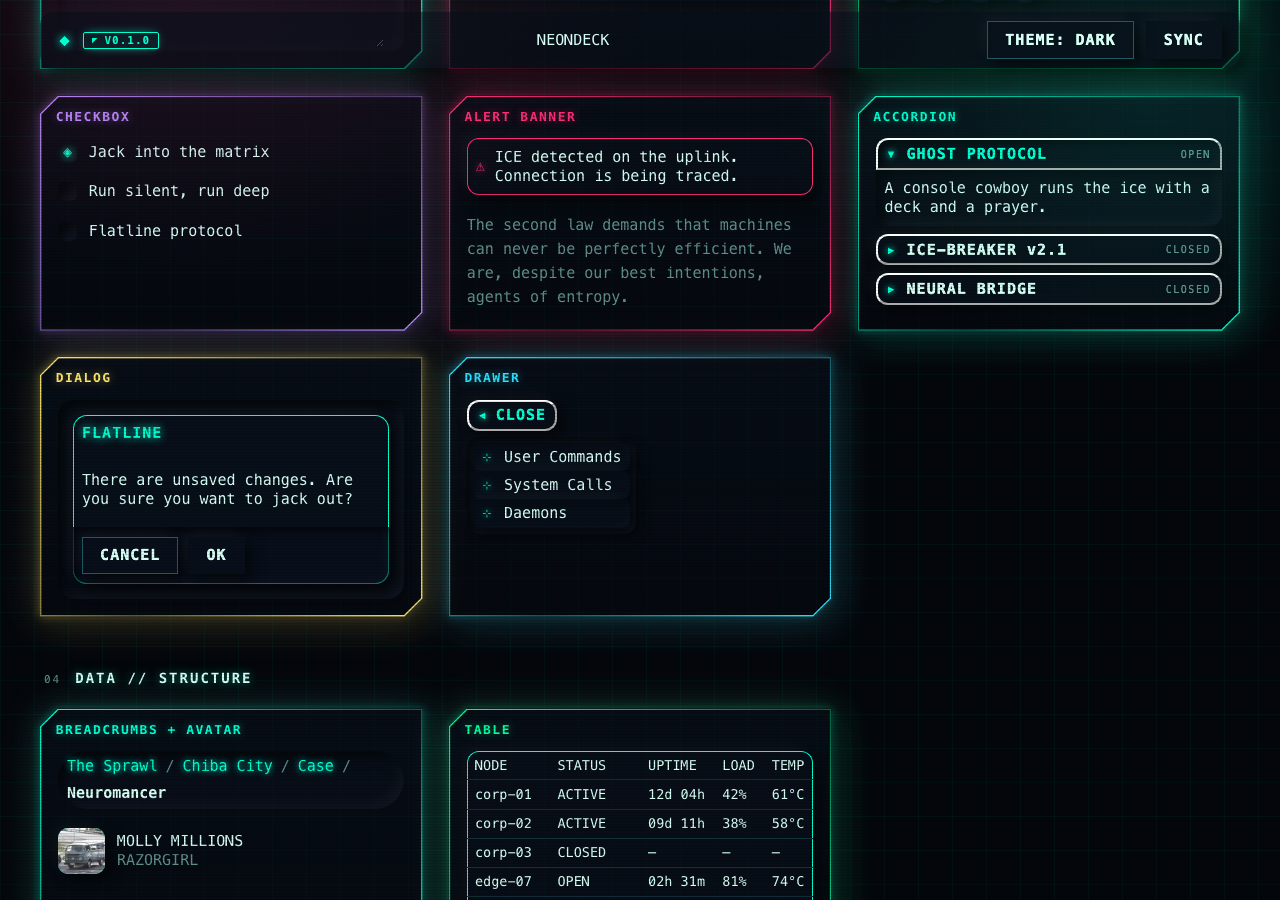
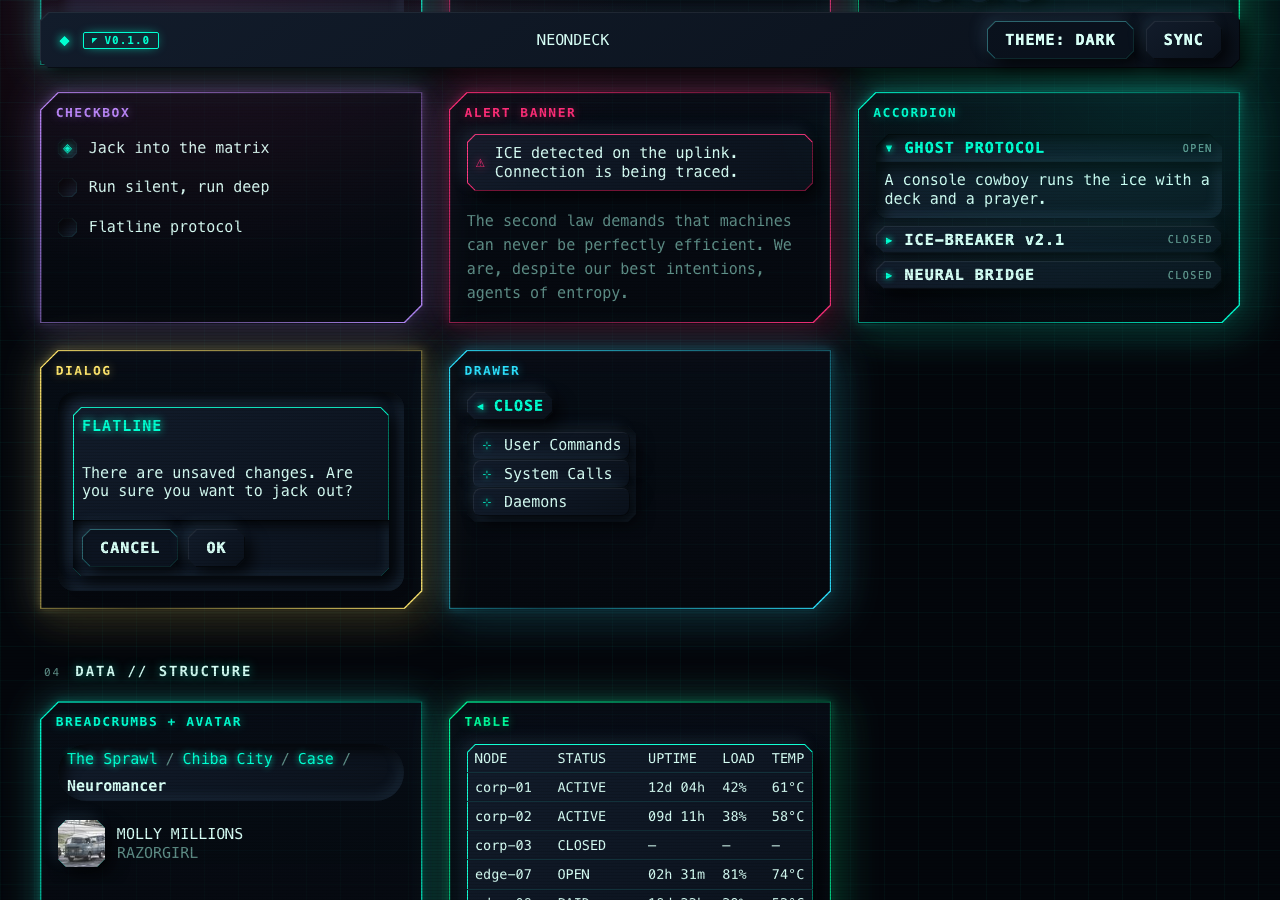
feat: make the neumorphic layer actually read on dark, fix spelling
Neumorphism needs a surface a few steps brighter than the page so both the
dark and the light shadow are visible. The old dark tokens used a near-black
surface with a 4% white highlight, so every Neo* control rendered flat.

Retune the --neo-* tokens in global.css: gradient surface, steel-blue light
shadow, 1px rim highlights, deeper wells. On dark the light shadow takes on
the element's neon tone via the shared [data-tone] rules (--tone-faint), so
the "light source" is the neon accent. Light theme gets matching rim
highlights and a cooler dark shadow. Add --neo-corner and apply
`corner-shape: bevel` (rounded fallback) across Neo surfaces so they match
the chamfered Panel language.

Fix default <button> borders leaking into NeoSelect, NeoAccordion and
NeoDrawer (the thick grey rings), add :focus-visible rings in their place,
give unchecked NeoCheckbox a visible rim, and drop the per-component tone
blocks in NeoButton/NeoToggle in favour of the global ones.

Rename "Neomorphic" → "Neumorphic" in story titles and comments, dedupe the
trails block in the screenshot script, refresh screenshots.

diff --git a/global.css b/global.css
@@ -114,13 +114,23 @@ body {
   --theme-window-background: rgba(10, 17, 28, 0.5);
   --theme-window-shadow: rgba(0, 255, 209, 0.16);
 
-  /* ---- neumorphic tokens (experimental) ---- */
-  --neo-surface: rgba(10, 17, 28, 0.55);
-  --neo-raised: 6px 6px 14px rgba(0, 0, 0, 0.55), -6px -6px 14px rgba(255, 255, 255, 0.04);
-  --neo-pressed: inset 4px 4px 10px rgba(0, 0, 0, 0.6), inset -4px -4px 10px rgba(255, 255, 255, 0.035);
-  --neo-well: inset 6px 6px 12px rgba(0, 0, 0, 0.55), inset -6px -6px 12px rgba(255, 255, 255, 0.04);
-  --neo-drop: drop-shadow(7px 7px 16px rgba(0, 0, 0, 0.5))
-    drop-shadow(-7px -7px 16px rgba(255, 255, 255, 0.05));
+  /* ---- neumorphic tokens ----
+     Neumorphism needs a surface a few steps brighter than the page so both
+     the dark and the light shadow can read. On dark the "light" shadow is a
+     cool steel-blue, optionally tinted by the element's neon tone via --neo-light. */
+  --neo-bg: #0c1420;
+  --neo-surface: linear-gradient(145deg, #121c2b 0%, #0a111b 100%);
+  --neo-surface-flat: #0d1622;
+  --neo-light: rgba(96, 140, 180, 0.16);
+  --neo-dark: rgba(0, 0, 0, 0.72);
+  --neo-rim: inset 1px 1px 0 rgba(255, 255, 255, 0.07), inset -1px -1px 0 rgba(0, 0, 0, 0.55);
+  --neo-raised: 7px 7px 16px var(--neo-dark), -6px -6px 14px var(--neo-light), var(--neo-rim);
+  --neo-pressed: inset 5px 5px 12px rgba(0, 0, 0, 0.8), inset -4px -4px 10px var(--neo-light),
+    inset 0 1px 0 rgba(0, 0, 0, 0.6);
+  --neo-well: inset 6px 6px 14px rgba(0, 0, 0, 0.78), inset -5px -5px 12px var(--neo-light);
+  --neo-drop: drop-shadow(8px 8px 18px rgba(0, 0, 0, 0.62))
+    drop-shadow(-6px -6px 14px rgba(96, 140, 180, 0.12));
+  --neo-corner: 8px;
 }
 
 /* ---- page backdrop: grid + scanlines + aurora ---- */
@@ -338,12 +348,17 @@ html[data-theme='light'] body {
   --theme-window-shadow: rgba(0, 150, 130, 0.22);
 
   /* ---- neumorphic tokens (experimental) ---- */
-  --neo-surface: rgba(255, 255, 255, 0.6);
-  --neo-raised: 6px 6px 14px rgba(0, 0, 0, 0.12), -6px -6px 14px rgba(255, 255, 255, 0.9);
-  --neo-pressed: inset 4px 4px 10px rgba(0, 0, 0, 0.14), inset -4px -4px 10px rgba(255, 255, 255, 0.85);
-  --neo-well: inset 6px 6px 12px rgba(0, 0, 0, 0.12), inset -6px -6px 12px rgba(255, 255, 255, 0.9);
-  --neo-drop: drop-shadow(7px 7px 16px rgba(0, 0, 0, 0.12))
-    drop-shadow(-7px -7px 16px rgba(255, 255, 255, 0.9));
+  --neo-bg: #e6eef3;
+  --neo-surface: linear-gradient(145deg, #f7fbfd 0%, #dfe8ee 100%);
+  --neo-surface-flat: #ecf2f6;
+  --neo-light: rgba(255, 255, 255, 0.95);
+  --neo-dark: rgba(60, 90, 110, 0.22);
+  --neo-rim: inset 1px 1px 0 rgba(255, 255, 255, 0.9), inset -1px -1px 0 rgba(60, 90, 110, 0.12);
+  --neo-raised: 7px 7px 16px var(--neo-dark), -6px -6px 14px var(--neo-light), var(--neo-rim);
+  --neo-pressed: inset 5px 5px 12px rgba(60, 90, 110, 0.26), inset -4px -4px 10px var(--neo-light);
+  --neo-well: inset 6px 6px 14px rgba(60, 90, 110, 0.22), inset -5px -5px 12px var(--neo-light);
+  --neo-drop: drop-shadow(8px 8px 18px rgba(60, 90, 110, 0.2))
+    drop-shadow(-6px -6px 14px rgba(255, 255, 255, 0.95));
 }
 
 @media (prefers-color-scheme: light) {
@@ -372,12 +387,17 @@ html[data-theme='light'] body {
     --theme-window-shadow: rgba(0, 150, 130, 0.22);
 
     /* ---- neumorphic tokens (experimental) ---- */
-    --neo-surface: rgba(255, 255, 255, 0.6);
-    --neo-raised: 6px 6px 14px rgba(0, 0, 0, 0.12), -6px -6px 14px rgba(255, 255, 255, 0.9);
-    --neo-pressed: inset 4px 4px 10px rgba(0, 0, 0, 0.14), inset -4px -4px 10px rgba(255, 255, 255, 0.85);
-    --neo-well: inset 6px 6px 12px rgba(0, 0, 0, 0.12), inset -6px -6px 12px rgba(255, 255, 255, 0.9);
-    --neo-drop: drop-shadow(7px 7px 16px rgba(0, 0, 0, 0.12))
-      drop-shadow(-7px -7px 16px rgba(255, 255, 255, 0.9));
+    --neo-bg: #e6eef3;
+    --neo-surface: linear-gradient(145deg, #f7fbfd 0%, #dfe8ee 100%);
+    --neo-surface-flat: #ecf2f6;
+    --neo-light: rgba(255, 255, 255, 0.95);
+    --neo-dark: rgba(60, 90, 110, 0.22);
+    --neo-rim: inset 1px 1px 0 rgba(255, 255, 255, 0.9), inset -1px -1px 0 rgba(60, 90, 110, 0.12);
+    --neo-raised: 7px 7px 16px var(--neo-dark), -6px -6px 14px var(--neo-light), var(--neo-rim);
+    --neo-pressed: inset 5px 5px 12px rgba(60, 90, 110, 0.26), inset -4px -4px 10px var(--neo-light);
+    --neo-well: inset 6px 6px 14px rgba(60, 90, 110, 0.22), inset -5px -5px 12px var(--neo-light);
+    --neo-drop: drop-shadow(8px 8px 18px rgba(60, 90, 110, 0.2))
+      drop-shadow(-6px -6px 14px rgba(255, 255, 255, 0.95));
   }
 }
 
@@ -411,11 +431,17 @@ html[data-theme='light'] body::after {
 }
 
 /* ---- shared neon tone keys: any element with data-tone gets --tone / --tone-soft ---- */
-[data-tone='teal'] { --tone: var(--neon-teal); --tone-soft: rgba(0, 255, 209, 0.45); }
-[data-tone='magenta'] { --tone: var(--neon-magenta); --tone-soft: rgba(255, 45, 120, 0.45); }
-[data-tone='yellow'] { --tone: var(--neon-yellow); --tone-soft: rgba(255, 230, 109, 0.45); }
-[data-tone='green'] { --tone: var(--neon-green); --tone-soft: rgba(0, 255, 157, 0.45); }
-[data-tone='violet'] { --tone: var(--neon-violet); --tone-soft: rgba(183, 139, 255, 0.45); }
-[data-tone='orange'] { --tone: var(--neon-orange); --tone-soft: rgba(255, 157, 45, 0.45); }
-[data-tone='red'] { --tone: var(--neon-red); --tone-soft: rgba(255, 77, 94, 0.45); }
-[data-tone='blue'] { --tone: var(--neon-blue); --tone-soft: rgba(45, 226, 255, 0.45); }
+[data-tone='teal'] { --tone: var(--neon-teal); --tone-soft: rgba(0, 255, 209, 0.45); --tone-faint: rgba(0, 255, 209, 0.14); }
+[data-tone='magenta'] { --tone: var(--neon-magenta); --tone-soft: rgba(255, 45, 120, 0.45); --tone-faint: rgba(255, 45, 120, 0.14); }
+[data-tone='yellow'] { --tone: var(--neon-yellow); --tone-soft: rgba(255, 230, 109, 0.45); --tone-faint: rgba(255, 230, 109, 0.14); }
+[data-tone='green'] { --tone: var(--neon-green); --tone-soft: rgba(0, 255, 157, 0.45); --tone-faint: rgba(0, 255, 157, 0.14); }
+[data-tone='violet'] { --tone: var(--neon-violet); --tone-soft: rgba(183, 139, 255, 0.45); --tone-faint: rgba(183, 139, 255, 0.14); }
+[data-tone='orange'] { --tone: var(--neon-orange); --tone-soft: rgba(255, 157, 45, 0.45); --tone-faint: rgba(255, 157, 45, 0.14); }
+[data-tone='red'] { --tone: var(--neon-red); --tone-soft: rgba(255, 77, 94, 0.45); --tone-faint: rgba(255, 77, 94, 0.14); }
+[data-tone='blue'] { --tone: var(--neon-blue); --tone-soft: rgba(45, 226, 255, 0.45); --tone-faint: rgba(45, 226, 255, 0.14); }
+
+/* on dark, the neumorphic "light source" takes on the element's neon tone */
+html:not([data-theme='light']) [data-tone] { --neo-light: var(--tone-faint); }
+@media (prefers-color-scheme: light) {
+  html:not([data-theme='dark']) [data-tone] { --neo-light: rgba(255, 255, 255, 0.95); }
+}

diff --git a/components/NeoButton.module.css b/components/NeoButton.module.css
@@ -16,6 +16,8 @@
   color: var(--theme-text);
   background: var(--neo-surface);
   box-shadow: var(--neo-raised);
+  border-radius: var(--neo-corner, 8px);
+  corner-shape: bevel;
   cursor: pointer;
   user-select: none;
   transition: box-shadow 160ms ease, transform 160ms ease, color 160ms ease, text-shadow 160ms ease;
@@ -23,12 +25,15 @@
 
 .root:hover {
   color: var(--tone, var(--theme-focused-foreground));
+  box-shadow: var(--neo-raised), 0 0 18px -6px var(--tone-soft, transparent);
 }
 
 .root:active {
+  background: linear-gradient(145deg, var(--neo-bg) 0%, var(--neo-surface-flat) 100%);
   box-shadow: var(--neo-pressed);
   transform: translateY(1px);
   color: var(--tone, var(--theme-focused-foreground));
+  text-shadow: 0 0 8px var(--tone-soft, transparent);
 }
 
 .root:focus-visible {
@@ -37,8 +42,10 @@
 }
 
 .pressed {
+  background: linear-gradient(145deg, var(--neo-bg) 0%, var(--neo-surface-flat) 100%);
   box-shadow: var(--neo-pressed);
   color: var(--tone, var(--theme-focused-foreground));
+  text-shadow: 0 0 8px var(--tone-soft, transparent);
 }
 
 .glass {
@@ -50,36 +57,4 @@
 
 .glass:active {
   box-shadow: var(--neo-pressed), inset 0 0 0 1px var(--tone, var(--theme-focused-foreground));
-}
-
-.root[data-tone='teal'] {
-  --tone: var(--neon-teal);
-}
-
-.root[data-tone='magenta'] {
-  --tone: var(--neon-magenta);
-}
-
-.root[data-tone='yellow'] {
-  --tone: var(--neon-yellow);
-}
-
-.root[data-tone='green'] {
-  --tone: var(--neon-green);
-}
-
-.root[data-tone='violet'] {
-  --tone: var(--neon-violet);
-}
-
-.root[data-tone='orange'] {
-  --tone: var(--neon-orange);
-}
-
-.root[data-tone='red'] {
-  --tone: var(--neon-red);
-}
-
-.root[data-tone='blue'] {
-  --tone: var(--neon-blue);
 }

diff --git a/components/NeoSelect.module.css b/components/NeoSelect.module.css
@@ -7,13 +7,16 @@
 
 .trigger {
   display: flex;
+  border: 0;
+  outline: 0;
   align-items: center;
   justify-content: space-between;
   gap: 12px;
   width: 100%;
   padding: calc(var(--theme-line-height-base) * 0.25rem) 1ch;
   background: var(--neo-surface);
-  border-radius: 12px;
+  border-radius: var(--neo-corner, 10px);
+  corner-shape: bevel;
   box-shadow: var(--neo-raised);
   color: var(--theme-text);
   font-family: var(--font-family-mono);
@@ -27,6 +30,10 @@
 
 .trigger:hover {
   color: var(--tone, var(--theme-focused-foreground));
+  box-shadow: var(--neo-raised), inset 0 0 0 1px var(--tone, var(--theme-focused-foreground));
+}
+
+.trigger:focus-visible {
   box-shadow: var(--neo-raised), inset 0 0 0 1px var(--tone, var(--theme-focused-foreground));
 }
 
@@ -54,7 +61,8 @@
   max-height: 16rem;
   overflow-y: auto;
   background: var(--neo-surface);
-  border-radius: 12px;
+  border-radius: var(--neo-corner, 10px);
+  corner-shape: bevel;
   box-shadow: var(--neo-raised), inset 0 0 0 1px var(--tone, var(--theme-focused-foreground));
   backdrop-filter: blur(14px) saturate(140%);
   -webkit-backdrop-filter: blur(14px) saturate(140%);

diff --git a/components/NeoDrawer.module.css b/components/NeoDrawer.module.css
@@ -5,12 +5,15 @@
 }
 
 .toggle {
+  border: 0;
+  outline: 0;
   display: inline-flex;
   align-items: center;
   gap: 8px;
   padding: calc(var(--theme-line-height-base) * 0.25rem) 1ch;
   background: var(--neo-surface);
-  border-radius: 12px;
+  border-radius: var(--neo-corner, 10px);
+  corner-shape: bevel;
   box-shadow: var(--neo-raised);
   color: var(--tone, var(--theme-focused-foreground));
   font-family: var(--font-family-mono);
@@ -37,7 +40,8 @@
 .body {
   margin-top: 6px;
   padding: 6px;
-  border-radius: 12px;
+  border-radius: var(--neo-corner, 10px);
+  corner-shape: bevel;
   background: var(--neo-surface);
   box-shadow: var(--neo-well);
   backdrop-filter: blur(10px) saturate(140%);
@@ -74,4 +78,8 @@
 
 .drawer[data-tone='blue'] {
   --tone: var(--neon-blue);
+}
+
+.toggle:focus-visible {
+  box-shadow: var(--neo-raised), inset 0 0 0 1px var(--tone, var(--theme-focused-foreground));
 }

diff --git a/components/NeoToggle.module.css b/components/NeoToggle.module.css
@@ -27,7 +27,7 @@
   width: 56px;
   height: 28px;
   border-radius: 999px;
-  background: var(--neo-surface);
+  background: var(--neo-bg);
   box-shadow: var(--neo-well);
   transition: box-shadow 180ms ease;
 }
@@ -56,36 +56,4 @@
 
 .label {
   color: var(--theme-text);
-}
-
-.root[data-tone='teal'] {
-  --tone: var(--neon-teal);
-}
-
-.root[data-tone='magenta'] {
-  --tone: var(--neon-magenta);
-}
-
-.root[data-tone='yellow'] {
-  --tone: var(--neon-yellow);
-}
-
-.root[data-tone='green'] {
-  --tone: var(--neon-green);
-}
-
-.root[data-tone='violet'] {
-  --tone: var(--neon-violet);
-}
-
-.root[data-tone='orange'] {
-  --tone: var(--neon-orange);
-}
-
-.root[data-tone='red'] {
-  --tone: var(--neon-red);
-}
-
-.root[data-tone='blue'] {
-  --tone: var(--neon-blue);
 }

diff --git a/components/NeoAccordion.module.css b/components/NeoAccordion.module.css
@@ -5,13 +5,16 @@
 }
 
 .header {
+  border: 0;
+  outline: 0;
   display: flex;
   align-items: center;
   gap: 10px;
   width: 100%;
   padding: calc(var(--theme-line-height-base) * 0.25rem) 1ch;
   background: var(--neo-surface);
-  border-radius: 12px;
+  border-radius: var(--neo-corner, 10px);
+  corner-shape: bevel;
   box-shadow: var(--neo-raised);
   color: var(--theme-text);
   font-family: var(--font-family-mono);
@@ -91,4 +94,8 @@
 
 .accordion[data-tone='blue'] {
   --tone: var(--neon-blue);
+}
+
+.header:focus-visible {
+  box-shadow: inset 0 0 0 1px var(--tone, var(--theme-focused-foreground));
 }

diff --git a/components/NeoCheckbox.module.css b/components/NeoCheckbox.module.css
@@ -16,9 +16,10 @@
   justify-content: center;
   width: calc(var(--theme-line-height-base) * 1rem);
   height: calc(var(--theme-line-height-base) * 1rem);
-  border-radius: 6px;
-  background: var(--neo-surface);
-  box-shadow: var(--neo-well);
+  border-radius: 5px;
+  corner-shape: bevel;
+  background: var(--neo-bg);
+  box-shadow: var(--neo-well), inset 0 0 0 1px var(--theme-border);
   flex-shrink: 0;
   transition: box-shadow 180ms ease;
 }

diff --git a/components/NeoAvatar.module.css b/components/NeoAvatar.module.css
@@ -20,7 +20,8 @@
   justify-content: center;
   width: calc(var(--theme-line-height-base) * 2.5rem);
   height: calc(var(--theme-line-height-base) * 2.5rem);
-  border-radius: 10px;
+  border-radius: var(--neo-corner, 10px);
+  corner-shape: bevel;
   background: var(--neo-surface);
   box-shadow: var(--neo-raised), inset 0 0 0 1px var(--tone, var(--theme-focused-foreground));
   overflow: hidden;

diff --git a/components/NeoTable.module.css b/components/NeoTable.module.css
@@ -3,7 +3,8 @@
   overflow-x: auto;
   overflow-y: hidden;
   background: var(--neo-surface);
-  border-radius: 12px;
+  border-radius: var(--neo-corner, 10px);
+  corner-shape: bevel;
   box-shadow: var(--neo-raised), inset 0 0 0 1px var(--tone, var(--theme-border-bright));
   backdrop-filter: blur(10px) saturate(140%);
   -webkit-backdrop-filter: blur(10px) saturate(140%);

diff --git a/stories/NeoForms.stories.tsx b/stories/NeoForms.stories.tsx
@@ -13,7 +13,7 @@ import { NeoThemeToggle } from './NeoTheme';
 const TONES = ['teal', 'magenta', 'yellow', 'green', 'violet', 'orange', 'red', 'blue'] as const;
 
 export default {
-  title: 'Neomorphic / Forms',
+  title: 'Neumorphic / Forms',
 };
 
 export const NeoInputField: Story<{ label: string; placeholder: string; tone: string }> = ({ label, placeholder, tone }) => (

diff --git a/components/NeoDialog.module.css b/components/NeoDialog.module.css
@@ -13,7 +13,8 @@
   max-width: 48ch;
   margin: 0 auto;
   background: var(--neo-surface);
-  border-radius: 14px;
+  border-radius: var(--neo-corner, 10px);
+  corner-shape: bevel;
   box-shadow: var(--neo-raised), inset 0 0 0 1px var(--tone, var(--theme-border-bright));
   backdrop-filter: blur(14px) saturate(150%);
   -webkit-backdrop-filter: blur(14px) saturate(150%);

diff --git a/components/NeoAlertBanner.module.css b/components/NeoAlertBanner.module.css
@@ -6,7 +6,8 @@
   width: 100%;
   padding: calc(var(--theme-line-height-base) * 0.5rem) 1ch;
   background: var(--neo-surface);
-  border-radius: 12px;
+  border-radius: var(--neo-corner, 10px);
+  corner-shape: bevel;
   box-shadow: var(--neo-raised), inset 0 0 0 1px var(--tone, var(--neon-magenta));
   color: var(--theme-text);
   font-family: var(--font-family-mono);
